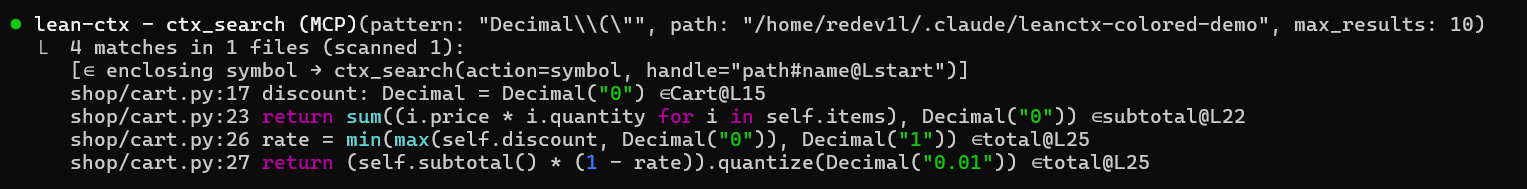
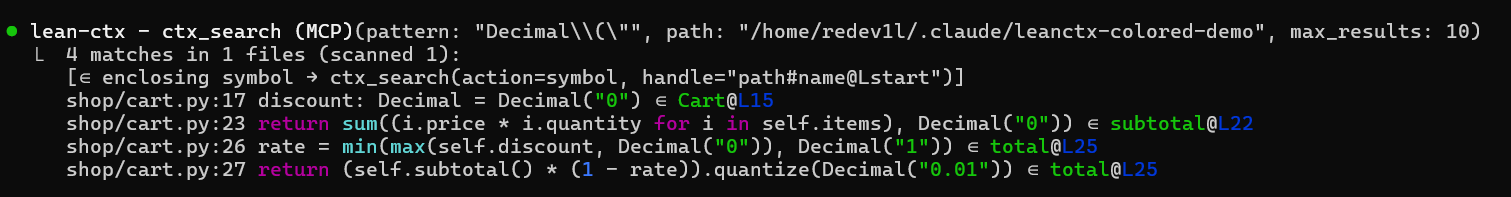
docs: ctx_search screenshot with the colored symbol note

Changed region(s): [[0.0, 0.0794, 0.9954, 0.9259]]

diff --git a/README.md b/README.md
@@ -8,8 +8,8 @@ A Claude Code mod that draws the output of the lean-ctx MCP server in color.
   stays as dim text.
 - **ctx_read**: `lines`, `anchored`, `full`/`raw` and multi-file reads are drawn as highlighted
   code with a line-number gutter. Anchor hashes are hidden on screen; the model still gets them.
-- **ctx_search**: each hit shows a dim `path:line`, the highlighted line, and the `∈symbol@L…`
-  enclosing-symbol note right after the code.
+- **ctx_search**: each hit shows a dim `path:line`, the highlighted line, and the enclosing-symbol
+  note `∈ name@L…` right after the code, with the name in green and the line in blue.
 
 Only the drawing changes: the model receives the tool output untouched. Whatever the mod does not
 recognise (signatures and map modes, errors, calls still running) Claude Code draws as usual.
